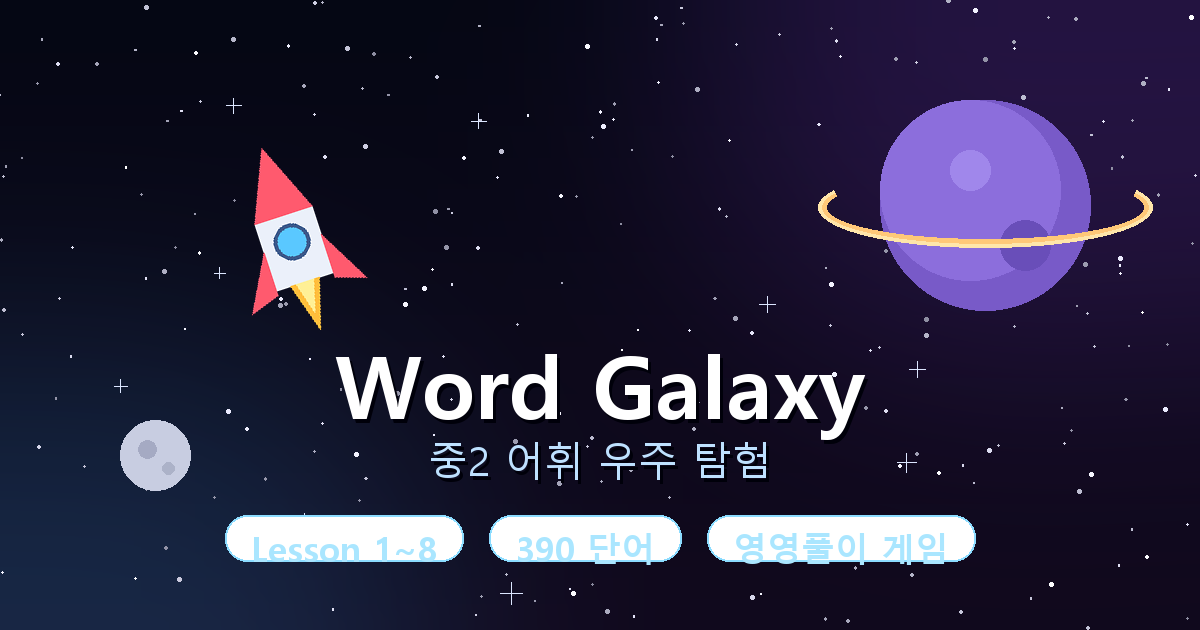
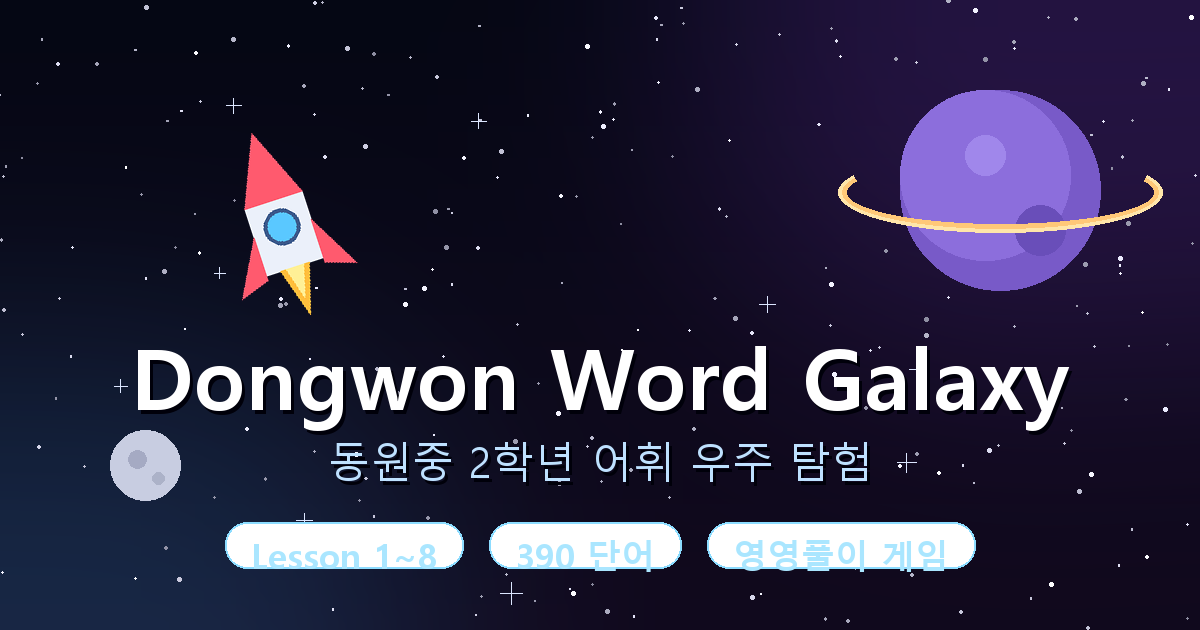
타이틀 변경: Dongwon Word Galaxy (동원중 2학년 명시)

diff --git a/index.html b/index.html
@@ -3,15 +3,15 @@
 <head>
 <meta charset="UTF-8" />
 <meta property="og:type" content="website" />
-<meta property="og:title" content="Word Galaxy — 중2 어휘 우주 탐험" />
-<meta property="og:description" content="Lesson 1~8 · 390단어 · 영영풀이 게임으로 어휘 정복!" />
+<meta property="og:title" content="Dongwon Word Galaxy" />
+<meta property="og:description" content="동원중 2학년 어휘 우주 탐험 · Lesson 1~8 · 390단어 · 영영풀이 게임" />
 <meta property="og:image" content="https://aro-deeply.github.io/word-galaxy/og.png" />
 <meta property="og:image:width" content="1200" />
 <meta property="og:image:height" content="630" />
 <meta property="og:url" content="https://aro-deeply.github.io/word-galaxy/" />
 <meta name="twitter:card" content="summary_large_image" />
 <meta name="viewport" content="width=device-width, initial-scale=1.0" />
-<title>🚀 Word Galaxy — 중2 어휘 우주 탐험</title>
+<title>🚀 Dongwon Word Galaxy — 동원중 2학년 어휘 우주 탐험</title>
 <style>
   :root{
     --bg-0:#05061a;
@@ -240,7 +240,7 @@
 
 <div class="app">
   <div class="topbar">
-    <div class="brand" id="brandHome"><span class="rocket">🚀</span><span>Word Galaxy</span><span class="lesson-tag hidden" id="lessonTag">L?</span></div>
+    <div class="brand" id="brandHome"><span class="rocket">🚀</span><span>Dongwon Word Galaxy</span><span class="lesson-tag hidden" id="lessonTag">L?</span></div>
     <div class="stats" id="hud">
       <span class="stat danger heart-row hidden" id="hudHearts">❤</span>
       <span class="stat gold" id="hudScore">⭐ 0</span>
@@ -253,8 +253,8 @@
   <section id="screen-pick" class="screen">
     <div class="pick-hero">
       <div class="big-rocket">🚀</div>
-      <h1>중2 어휘 우주 탐험</h1>
-      <div class="sub">Lesson을 골라서 행성을 정복해보자!</div>
+      <h1>Dongwon Word Galaxy</h1>
+      <div class="sub">동원중 2학년 어휘 우주 탐험 · Lesson을 골라서 행성을 정복해보자!</div>
       <div class="sub">각 과 50단어 안팎 · 5개 행성 · 영영풀이 게임</div>
     </div>
     <div class="lesson-grid" id="lessonGrid"></div>

diff --git a/README.md b/README.md
@@ -1,6 +1,6 @@
-# 🚀 Word Galaxy — 중2 어휘 우주 탐험
+# 🚀 Dongwon Word Galaxy — 동원중 2학년 어휘 우주 탐험
 
-중학교 2학년 영어 교과서 어휘를 영영풀이 게임으로 학습하는 우주 테마 웹게임.
+동원중학교 2학년 영어 교과서 어휘를 영영풀이 게임으로 학습하는 우주 테마 웹게임.
 첫 화면에서 **Lesson 1~8**을 골라서 진행할 수 있어요.
 
 ## 플레이
